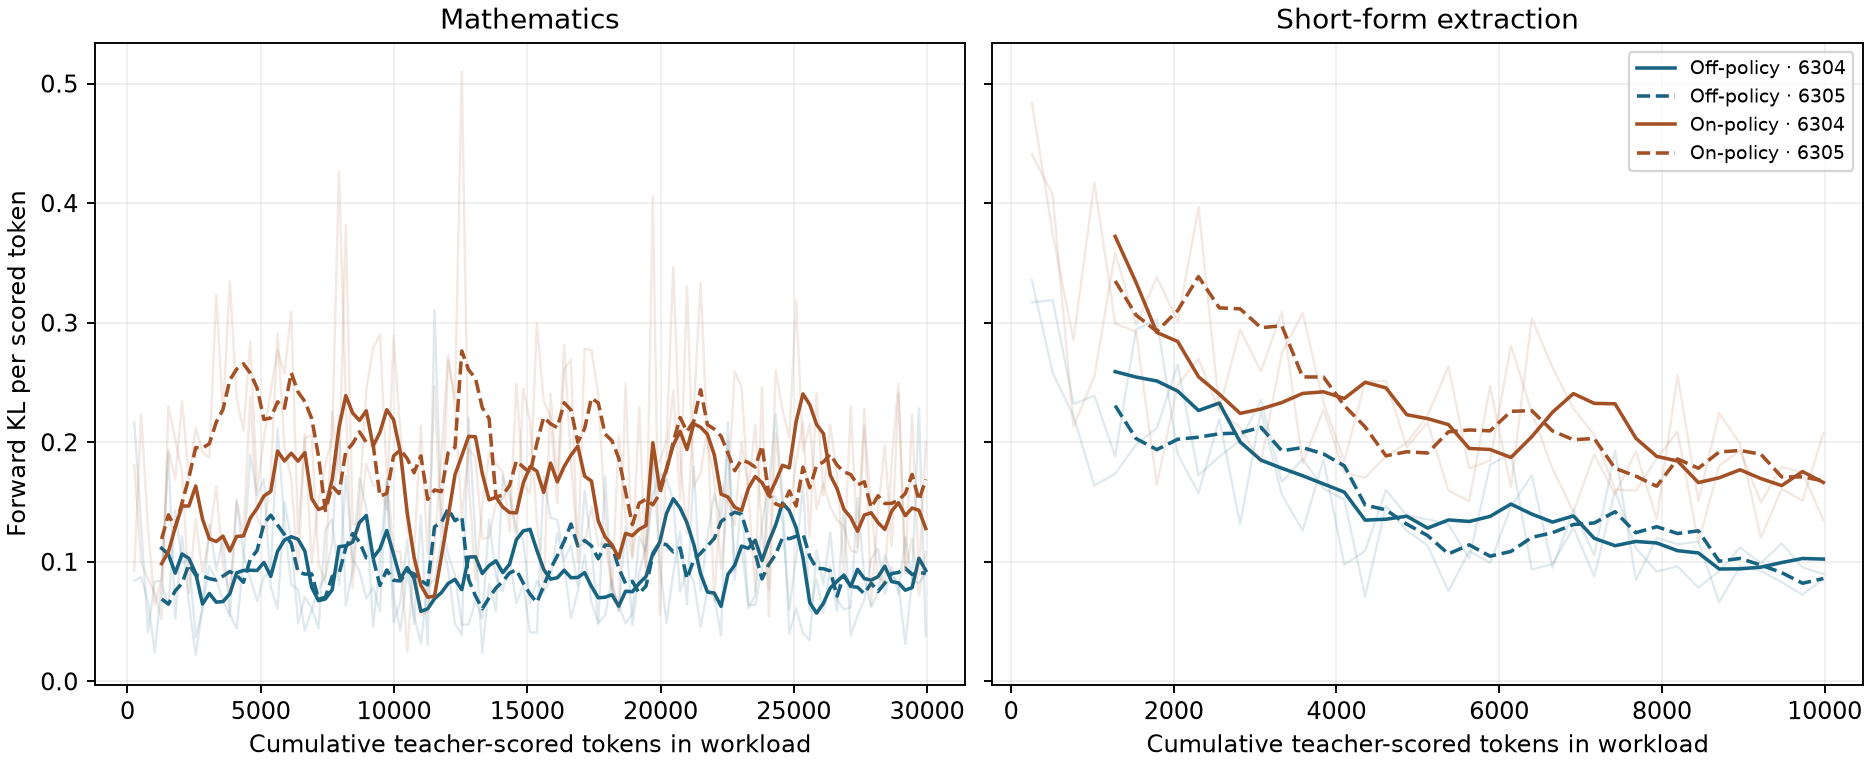
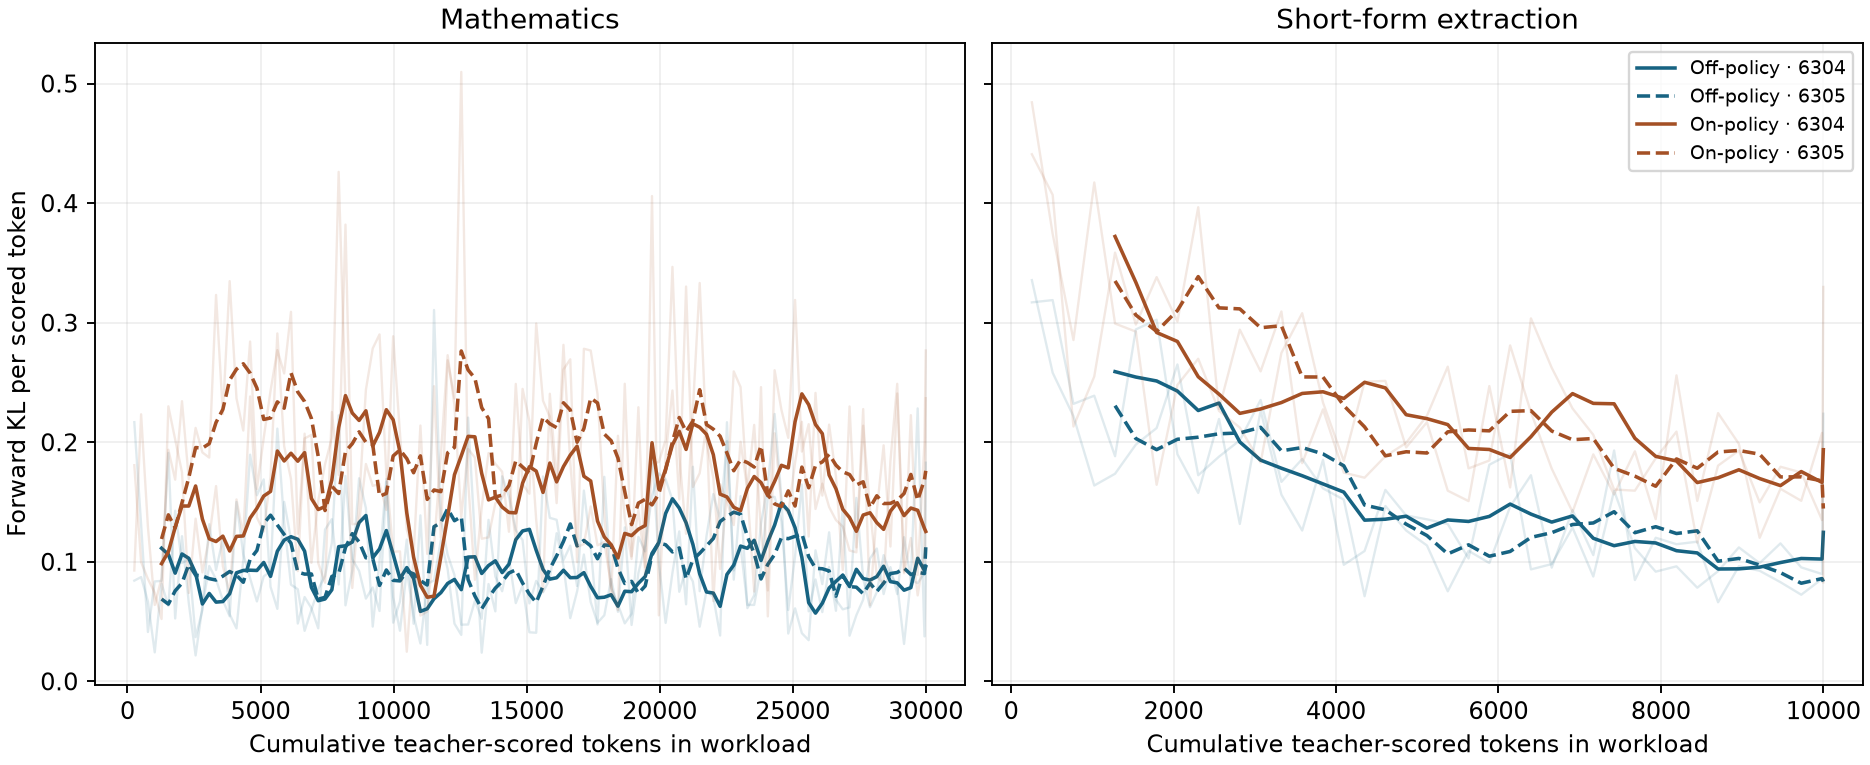
Verify dependency resolution and plot the final scored-token budgets

diff --git a/scripts/plot_distillation.py b/scripts/plot_distillation.py
@@ -1,6 +1,7 @@
 """Plot audited loss curves against the cumulative number of teacher-scored tokens."""
 
 import argparse
+import gzip
 import json
 from pathlib import Path
 
@@ -17,10 +18,19 @@ def plot(inputs, output):
             updates = [json.loads(line) for line in stream]
         if status["status"] != "passed" or len(updates) != 157 or updates[-1]["counts"] != status["tokens"]:
             raise ValueError(f"Missing complete training evidence at {directory}")
+        with gzip.open(directory / "rollouts-and-segments.jsonl.gz", "rt", encoding="utf-8") as stream:
+            final_segments = [row for row in map(json.loads, stream)
+                              if row["event"] == "segment" and row["update"] == 157]
         for axis, category, heading in zip(axes, ("math", "short"), ("Mathematics", "Short-form extraction"), strict=True):
             category_updates = [row for row in updates if set(row["category_tokens"]) == {category}]
             x = [row["counts"][category] for row in category_updates]
             y = [row["kl"] for row in category_updates]
+            remaining = [row for row in final_segments if row["category"] == category]
+            n = sum(row["tokens"] for row in remaining)
+            if x[-1] + n != status["tokens"][category]:
+                raise ValueError(f"Final mixed update does not reach the {category} quota in {directory}")
+            x.append(status["tokens"][category])
+            y.append(sum(row["kl_sum"] for row in remaining) / n)
             color = "#176382" if config["policy"] == "off" else "#a45025"
             style = "-" if config["seed"] == 6304 else "--"
             label = f"{config['policy'].capitalize()}-policy · {config['seed']}"
